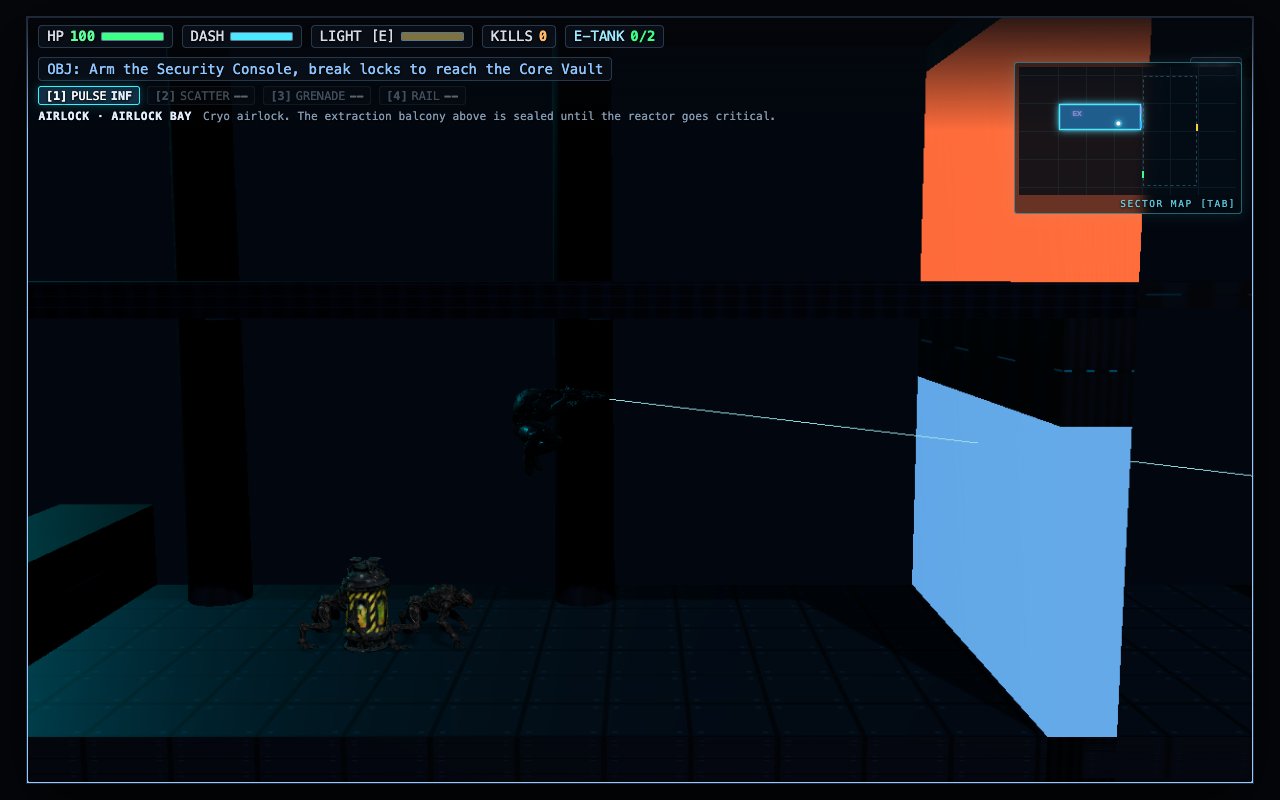
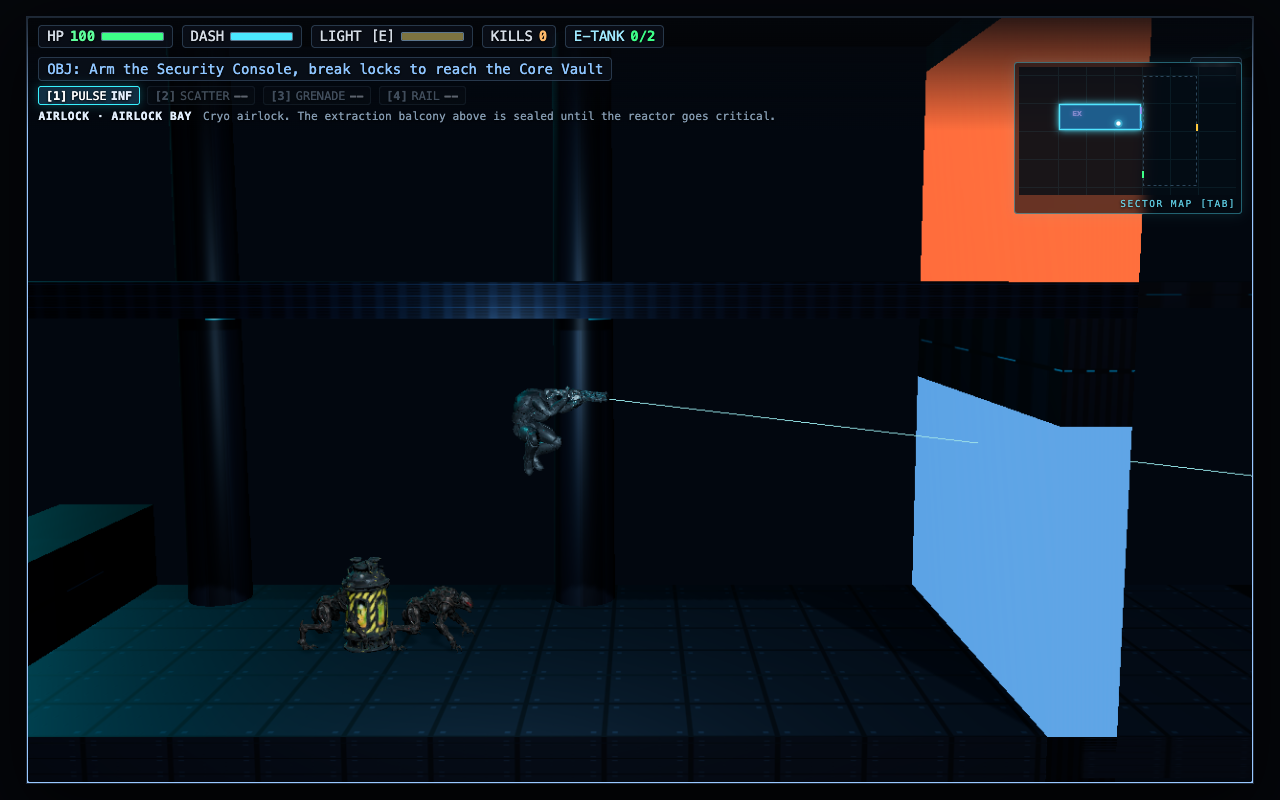
fix(render): smooth turn-around, debounced jump pose, fill light for readability

diff --git a/src/render3d/scene3dFull.ts b/src/render3d/scene3dFull.ts
@@ -62,6 +62,13 @@ const DOOR_COLORS: Record<string, number> = {
   escape: 0xff4a2a,
 };
 
+function turnToward(current: number, target: number, dt: number, rate = 16): number {
+  let d = target - current;
+  while (d > Math.PI) d -= Math.PI * 2;
+  while (d < -Math.PI) d += Math.PI * 2;
+  return current + d * Math.min(1, dt * rate);
+}
+
 interface PosSnap {
   x: number;
   y: number;
@@ -81,6 +88,7 @@ export class Scene3DRenderer {
   private readonly headlampTarget = new THREE.Object3D();
   private readonly headlampCone: THREE.Mesh;
   private readonly muzzleLight: THREE.PointLight;
+  private readonly fillLight: THREE.PointLight;
   private readonly laserLine: THREE.Line;
   private readonly laserGeom: THREE.BufferGeometry;
   private readonly reticleGroup = new THREE.Group();
@@ -95,6 +103,7 @@ export class Scene3DRenderer {
   private readonly upgradeMeshes = new Map<string, THREE.Mesh>();
   private readonly savePads: THREE.Mesh[] = [];
   private lastTick = -1;
+  private airTime = 0;
   private prevPlayer: PosSnap = { x: 0, y: 0 };
   private curPlayer: PosSnap = { x: 0, y: 0 };
   private prevEnemies = new Map<string, PosSnap>();
@@ -184,6 +193,10 @@ export class Scene3DRenderer {
       }),
     );
     this.scene.add(this.headlampCone);
+
+    // Visual-only fill light so the operative stays readable in dark shafts
+    this.fillLight = new THREE.PointLight(0xbfe6ff, 22, 14, 1.3);
+    this.scene.add(this.fillLight);
 
     this.muzzleLight = new THREE.PointLight(0x38f2ff, 0, 7, 1.6);
     this.scene.add(this.muzzleLight);
@@ -716,18 +729,23 @@ export class Scene3DRenderer {
     if (this.operativeRig) {
       const rig = this.operativeRig;
       rig.root.position.set(px, py, 0);
-      rig.root.rotation.y = pose.aimSignX > 0 ? Math.PI * 0.5 : -Math.PI * 0.5;
+      // Smooth turn-around instead of a hard 180 degree snap
+      const faceYaw = pose.aimSignX > 0 ? Math.PI * 0.5 : -Math.PI * 0.5;
+      rig.root.rotation.y = w.tick <= 2 ? faceYaw : turnToward(rig.root.rotation.y, faceYaw, dt, 18);
+      // Debounce airborne pose so stepping off a ledge or a one-tick floor miss does not trigger the jump clip
+      this.airTime = pb.grounded ? 0 : this.airTime + dt;
+      const airborne = !pb.grounded && (pb.vy > 0.5 || this.airTime > 0.1);
 
       const desiredAnim: ActorAnimAction =
         p.hp <= 0
           ? 'death'
-          : !pb.grounded
+          : airborne
             ? 'jump'
             : pb.dashTicks > 0 || Math.abs(pb.vx) > 1.2
               ? 'run'
               : 'idle';
 
-      stepRiggedAnimation3D(rig, desiredAnim, dt, 1.08, 0, p.hp > 0, pose);
+      stepRiggedAnimation3D(rig, desiredAnim, dt, 1.08, 0, p.hp > 0, { ...pose, grounded: pose.grounded || !airborne });
       rig.root.updateMatrixWorld(true);
 
       if (p.hurtFlashTicks > 0) flashRiggedMaterials3D(rig, 0xff2f2f, 0.75);
@@ -746,6 +764,7 @@ export class Scene3DRenderer {
       this.reticleGroup.position.set(p.aimX, p.aimY, 0.3);
       this.reticleGroup.rotation.z = tSec * 3.2;
 
+      this.fillLight.position.set(px, py + 1.8, 4.2);
       this.muzzleLight.intensity = p.muzzleFlashTicks > 0 ? 14 : 0;
       this.muzzleLight.position.copy(muzzlePos);
 
@@ -772,7 +791,7 @@ export class Scene3DRenderer {
       const rig = this.riggedEnemies.get(e.id);
       if (rig) {
         rig.root.position.set(ex, ey, 0);
-        rig.root.rotation.y = e.yaw;
+        rig.root.rotation.y = turnToward(rig.root.rotation.y, e.yaw, dt, 12);
         stepRiggedAnimation3D(rig, e.alive ? e.anim : 'death', dt, e.kind === 'warden' && e.phase === 2 ? 1.25 : 1.0);
         if (e.hitFlashTicks > 0) {
           flashRiggedMaterials3D(rig, 0xff7755, 0.32);
@@ -795,7 +814,7 @@ export class Scene3DRenderer {
         } else {
           const bob = e.kind === 'spitter' ? Math.sin(tSec * 4 + e.x) * 0.14 : Math.abs(Math.sin(tSec * 12 + e.x)) * 0.08;
           st.root.position.set(ex, ey + bob, 0);
-          st.root.rotation.y = e.yaw;
+          st.root.rotation.y = turnToward(st.root.rotation.y, e.yaw, dt, 12);
           const fAmt = e.hitFlashTicks > 0 ? 0.7 : 0;
           for (let i = 0; i < st.materials.length; i++) {
             st.materials[i].emissive.copy(st.baseEmissive[i]).lerp(new THREE.Color(0xffffff), fAmt);
